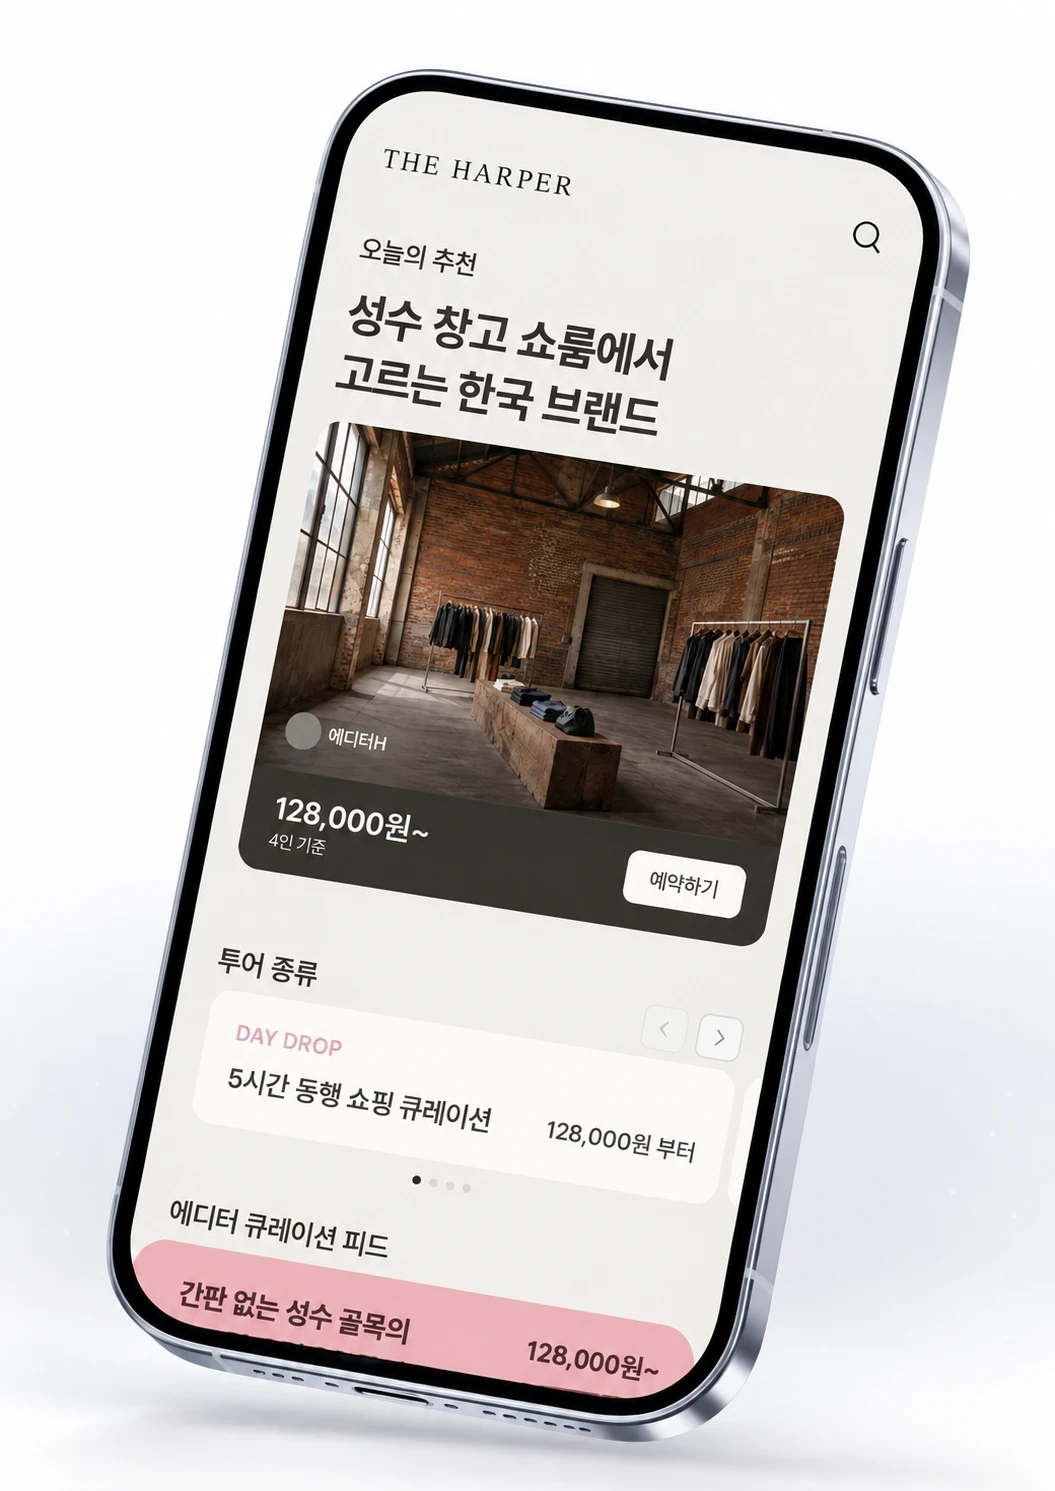
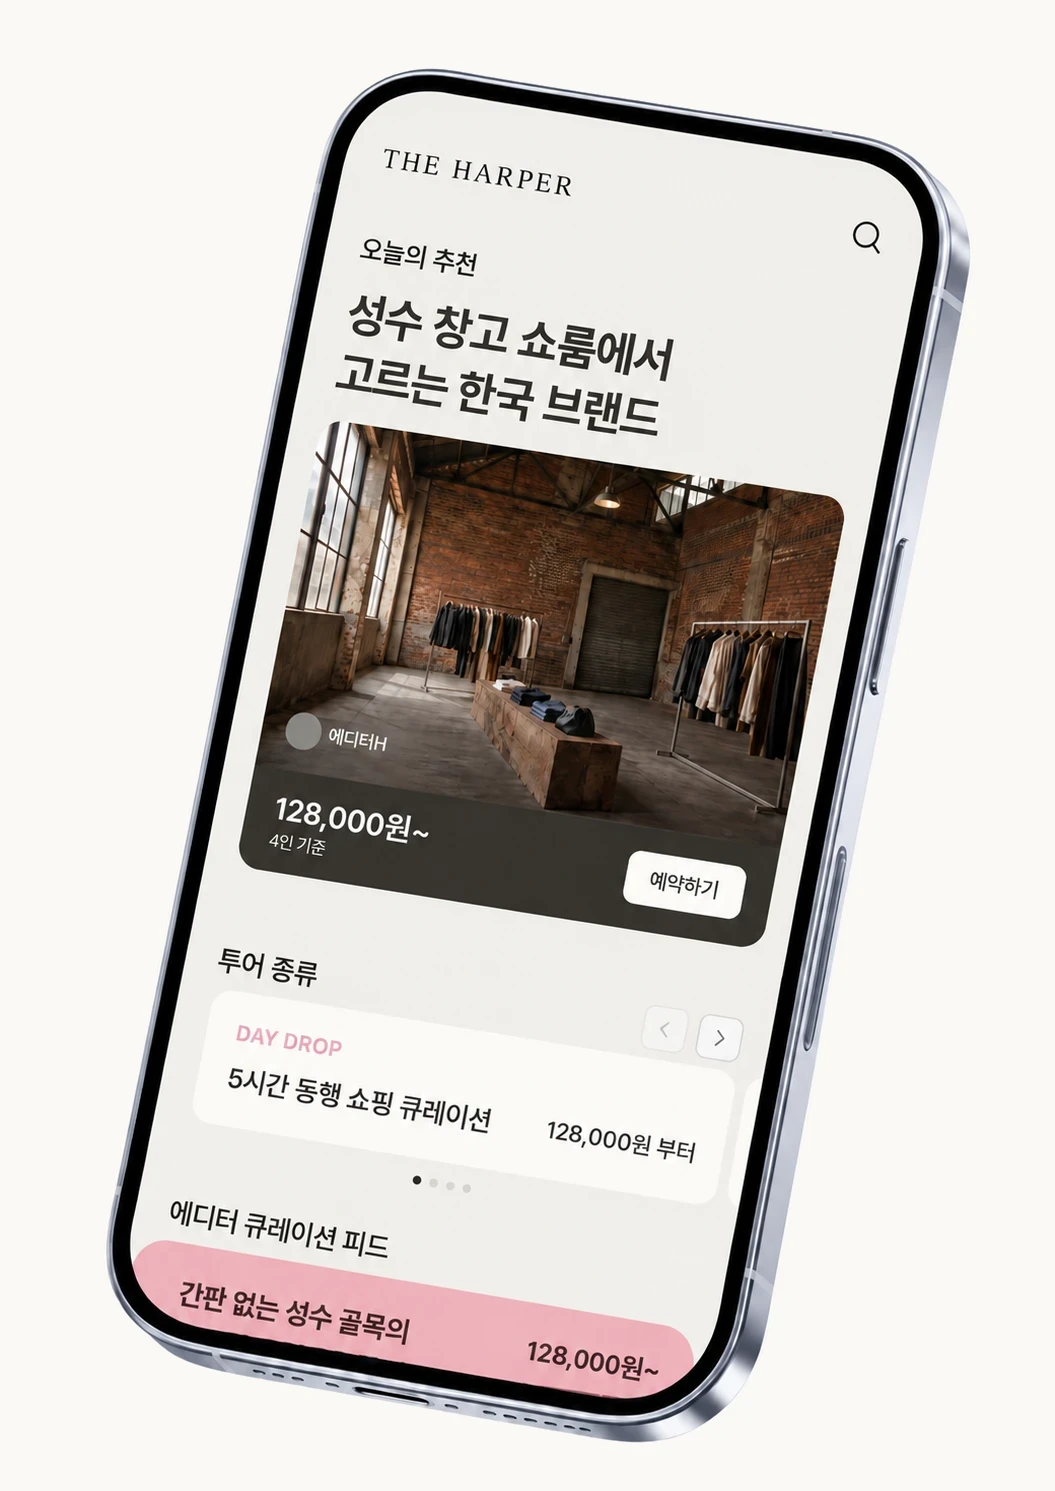
히어로 폰 사진을 따뜻한 미색 배경 버전으로 교체, 히어로 바탕을 사진색(#FBF9F5)으로

diff --git a/index.html b/index.html
@@ -4,7 +4,7 @@
   <meta charset="UTF-8">
   <meta name="viewport" content="width=device-width, initial-scale=1.0">
   <meta name="description" content="더하퍼 — K패션 에디터 큐레이션, 서울">
-  <meta name="theme-color" content="#FEFEFE">
+  <meta name="theme-color" content="#FBF9F5">
   <meta property="og:title" content="THE HARPER — K-fashion editor curation, Seoul">
   <meta property="og:description" content="더하퍼 — K패션 에디터 큐레이션, 서울">
   <meta property="og:type" content="website">
@@ -18,8 +18,8 @@
   <link rel="apple-touch-icon" href="src/assets/apple-touch-icon.png?v=1">
 
   <link rel="stylesheet" href="https://cdnjs.cloudflare.com/ajax/libs/leaflet/1.9.4/leaflet.min.css" />
-  <link rel="preload" as="image" href="src/assets/hero-phone-1045.webp?v=1" imagesrcset="src/assets/hero-phone-520.webp?v=1 520w, src/assets/hero-phone-1045.webp?v=1 1045w" imagesizes="(max-width: 900px) 100vw, 46vw" fetchpriority="high">
-  <link rel="stylesheet" href="src/styles/site.css?v=8">
+  <link rel="preload" as="image" href="src/assets/hero-phone-1045.webp?v=2" imagesrcset="src/assets/hero-phone-520.webp?v=2 520w, src/assets/hero-phone-1045.webp?v=2 1045w" imagesizes="(max-width: 900px) 100vw, 46vw" fetchpriority="high">
+  <link rel="stylesheet" href="src/styles/site.css?v=9">
   <title data-i18n="site-title">더하퍼 — K-패션 에디터 큐레이션, 서울</title>
 </head>
 <body>
@@ -95,7 +95,7 @@
         </div>
 
         <div class="hero__visual">
-          <img class="hero__phone" src="src/assets/hero-phone-1045.webp?v=1" srcset="src/assets/hero-phone-520.webp?v=1 520w, src/assets/hero-phone-1045.webp?v=1 1045w" sizes="(max-width: 900px) 100vw, 46vw" alt="THE HARPER 앱 홈 화면이 보이는 휴대전화" width="1055" height="1491" fetchpriority="high" decoding="async">
+          <img class="hero__phone" src="src/assets/hero-phone-1045.webp?v=2" srcset="src/assets/hero-phone-520.webp?v=2 520w, src/assets/hero-phone-1045.webp?v=2 1045w" sizes="(max-width: 900px) 100vw, 46vw" alt="THE HARPER 앱 홈 화면이 보이는 휴대전화" width="1055" height="1491" fetchpriority="high" decoding="async">
         </div>
 
         <div class="hero__foot">

diff --git a/src/styles/site.css b/src/styles/site.css
@@ -242,13 +242,13 @@ em { font-style: italic; font-synthesis: none; }
 }
 
 /* ------------------------------------------------------------------
-   히어로: 밝은 바탕(사진 배경색 #FEFEFE) + 왼쪽 글, 오른쪽 앱 화면 폰 사진
+   히어로: 밝은 바탕(사진 배경색 #FBF9F5) + 왼쪽 글, 오른쪽 앱 화면 폰 사진
    ------------------------------------------------------------------ */
 .hero {
   position: relative;
   min-height: 100vh;
   min-height: 100svh;
-  background: linear-gradient(to bottom, #FEFEFE 0%, #FEFEFE 70%, #F0EFF2 100%); /* 사진 아래쪽 옅은 회색과 이어진다 */
+  background: #FBF9F5; /* 폰 사진의 배경색 그대로(그라운드 #FAF9F6와 거의 같다) */
   color: var(--color-ink);
   overflow: hidden;
   display: flex;
@@ -303,7 +303,7 @@ em { font-style: italic; font-synthesis: none; }
   padding: 6px 14px 6px 10px;
   border-radius: 9999px;
   border: 1px solid var(--gray-300);
-  background: rgba(255, 255, 255, 0.7);
+  background: transparent;
   font-size: 12px;
   font-weight: 400;
   letter-spacing: 0.02em;
